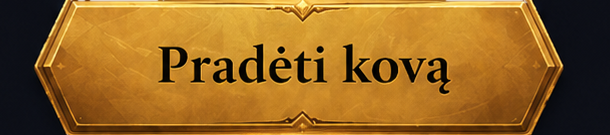
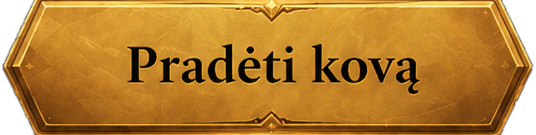
fix(ui): /digital header ir home slifavimas. 1) Dublikuotas varpelis: globalus NotificationCenter plaukiantis bell nerodomas /digital route (toast'ai lieka). 2) Header bell dabar atidaro nauja NotificationsModal (notifications lentele: sarasas, laikas, nuorodos, auto mark-read + badge nulinamas). 3)

diff --git a/src/components/digital/NotificationsModal.tsx b/src/components/digital/NotificationsModal.tsx
@@ -1,0 +1,86 @@
+'use client'
+
+// ── Ravenof Digital — pranešimų modalas (notifications lentelė, mark-read) ────
+import { useEffect, useState } from 'react'
+import { useRouter } from 'next/navigation'
+import { X, BellOff } from 'lucide-react'
+import { createClient } from '@/lib/supabase/client'
+import { playUiClick } from '@/lib/ui-sound'
+import { RvnIcon } from './ui/RvnIcon'
+
+type Notif = { id: string; type: string; title: string; message: string | null; link: string | null; read: boolean; created_at: string }
+
+const ICON: Record<string, string> = { message: '💬', friend: '👥', challenge: '⚔️', trade: '🔄', sale: '🪙', badge: '🎖️', system: '📜' }
+
+function timeAgo(ts: string): string {
+  const s = Math.max(0, (Date.now() - new Date(ts).getTime()) / 1000)
+  if (s < 60) return 'ką tik'
+  if (s < 3600) return `prieš ${Math.floor(s / 60)} min.`
+  if (s < 86400) return `prieš ${Math.floor(s / 3600)} val.`
+  return `prieš ${Math.floor(s / 86400)} d.`
+}
+
+export function NotificationsModal({ onClose, onRead }: { onClose: () => void; onRead?: () => void }) {
+  const router = useRouter()
+  const [items, setItems] = useState<Notif[] | null>(null)
+
+  useEffect(() => {
+    const supabase = createClient()
+    supabase.auth.getUser().then(({ data: { user } }) => {
+      if (!user) { setItems([]); return }
+      supabase.from('notifications').select('id, type, title, message, link, read, created_at')
+        .eq('user_id', user.id).order('created_at', { ascending: false }).limit(30)
+        .then(({ data }) => {
+          setItems((data as Notif[]) ?? [])
+          // pažymim viską skaityta
+          supabase.from('notifications').update({ read: true }).eq('user_id', user.id).eq('read', false)
+            .then(() => onRead?.())
+        })
+    })
+    // eslint-disable-next-line react-hooks/exhaustive-deps
+  }, [])
+
+  const open = (n: Notif) => {
+    playUiClick()
+    if (n.link) { onClose(); router.push(n.link) }
+  }
+
+  return (
+    <div className="fixed inset-0 z-[160] flex items-end sm:items-center justify-center" style={{ background: 'rgba(0,0,0,0.72)', backdropFilter: 'blur(4px)' }} onClick={onClose}>
+      <div className="w-full sm:max-w-md rvn-fade flex flex-col" onClick={(e) => e.stopPropagation()}
+        style={{ maxHeight: '76vh', borderRadius: '18px 18px 0 0', background: 'linear-gradient(165deg, #17111f, #0a0810)', border: '1px solid rgba(240,180,41,0.35)', borderBottom: 'none', boxShadow: '0 -10px 44px rgba(0,0,0,0.8)' }}>
+        <div className="flex items-center justify-between px-4 pt-3.5 pb-2.5" style={{ borderBottom: '1px solid rgba(240,180,41,0.18)' }}>
+          <p className="text-base font-bold inline-flex items-center gap-2" style={{ fontFamily: 'var(--rvn-font-display)', color: 'var(--gold)', letterSpacing: '0.08em' }}>
+            <RvnIcon name="fi-bell" size={22} fallback={<span>🔔</span>} /> PRANEŠIMAI
+          </p>
+          <button onClick={() => { playUiClick(); onClose() }} aria-label="Uždaryti" className="flex items-center justify-center rounded-full" style={{ width: 32, height: 32, background: 'rgba(10,8,16,0.9)', border: '1px solid rgba(240,180,41,0.4)', color: 'var(--gold)' }}><X className="w-4 h-4" /></button>
+        </div>
+        <div className="flex-1 overflow-y-auto" style={{ paddingBottom: 'calc(12px + env(safe-area-inset-bottom, 0px))' }}>
+          {items === null && <p className="text-center text-sm py-10" style={{ color: 'var(--text-muted)' }}>Kraunama…</p>}
+          {items?.length === 0 && (
+            <div className="flex flex-col items-center gap-2 py-12">
+              <BellOff className="w-8 h-8" style={{ color: 'rgba(240,180,41,0.4)' }} />
+              <p className="text-sm" style={{ color: 'var(--text-muted)' }}>Pranešimų kol kas nėra.</p>
+            </div>
+          )}
+          {items?.map((n) => (
+            <button key={n.id} onClick={() => open(n)} disabled={!n.link}
+              className="w-full flex items-start gap-3 px-4 py-3 text-left transition-colors active:bg-white/5"
+              style={{ borderBottom: '1px solid rgba(255,255,255,0.05)', opacity: n.read ? 0.75 : 1 }}>
+              <span className="relative shrink-0 flex items-center justify-center rounded-lg" style={{ width: 36, height: 36, background: 'rgba(240,180,41,0.1)', border: '1px solid rgba(240,180,41,0.28)', fontSize: 17 }}>
+                {ICON[n.type] ?? '📣'}
+                {!n.read && <span className="absolute rounded-full" style={{ top: -3, right: -3, width: 9, height: 9, background: '#ef4444', border: '1.5px solid #0a0810' }} />}
+              </span>
+              <span className="flex-1 min-w-0">
+                <span className="block text-[13px] font-bold truncate" style={{ color: '#f3ead3', fontFamily: 'var(--rvn-font-display)' }}>{n.title}</span>
+                {n.message && <span className="block text-[11.5px] leading-snug" style={{ color: 'var(--text-muted)' }}>{n.message}</span>}
+                <span className="block text-[10px] mt-0.5" style={{ color: 'rgba(150,160,185,0.6)' }}>{timeAgo(n.created_at)}</span>
+              </span>
+              {n.link && <span className="shrink-0 self-center" style={{ color: 'rgba(240,180,41,0.6)', fontSize: 14 }}>→</span>}
+            </button>
+          ))}
+        </div>
+      </div>
+    </div>
+  )
+}

diff --git a/src/components/digital/SettingsModal.tsx b/src/components/digital/SettingsModal.tsx
@@ -13,10 +13,13 @@ import {
 import { saveDigitalSettings } from '@/lib/settings-sync'
 import { isUiSoundEnabled, toggleUiSound, subscribeUiSound, playUiClick } from '@/lib/ui-sound'
 import { remindersEnabled, setRemindersEnabled, isNativeApp } from '@/lib/digital/native'
+import { RvnIcon } from './ui/RvnIcon'
 
 const ACC = '240,180,41'
 
-export function SettingsModal({ onClose }: { onClose: () => void }) {
+type Profile = { name: string; level: number; pct: number; avatarUrl: string | null }
+
+export function SettingsModal({ onClose, profile }: { onClose: () => void; profile?: Profile | null }) {
   const [music, setMusic] = useState(0.32)
   const [sfx, setSfx] = useState(1)
   const [summon, setSummon] = useState(true)
@@ -45,8 +48,26 @@ export function SettingsModal({ onClose }: { onClose: () => void }) {
   return (
     <div className="fixed inset-0 z-[150] flex items-center justify-center p-4" style={{ background: 'rgba(4,3,8,0.9)' }} onClick={onClose}>
       <div className="relative w-[min(420px,94vw)]" style={{ borderRadius: 18, background: `rgba(${ACC},0.32)`, padding: 2 }} onClick={(e) => e.stopPropagation()}>
-        <div className="relative px-5 py-6" style={{ borderRadius: 17, background: `radial-gradient(120% 90% at 50% 0%, rgba(${ACC},0.14), rgba(10,8,16,0.97) 60%), linear-gradient(160deg,#15101f,#0a0810)` }}>
-          <p className="text-lg font-bold mb-5 text-center" style={{ fontFamily: 'var(--rvn-font-display)', color: 'var(--gold)', letterSpacing: '0.08em' }}>⚙️ NUSTATYMAI</p>
+        <div className="relative px-5 py-6" style={{ borderRadius: 17, maxHeight: '86vh', overflowY: 'auto', background: `radial-gradient(120% 90% at 50% 0%, rgba(${ACC},0.14), rgba(10,8,16,0.97) 60%), linear-gradient(160deg,#15101f,#0a0810)` }}>
+          <p className="text-lg font-bold mb-4 text-center" style={{ fontFamily: 'var(--rvn-font-display)', color: 'var(--gold)', letterSpacing: '0.08em' }}>⚙️ NUSTATYMAI</p>
+
+          {/* Žaidėjo profilis */}
+          {profile && (
+            <div className="mb-5 flex items-center gap-3 px-3.5 py-3 rounded-2xl" style={{ background: `radial-gradient(120% 120% at 0% 0%, rgba(${ACC},0.16), transparent 55%), rgba(10,8,16,0.7)`, border: `1px solid rgba(${ACC},0.35)` }}>
+              <span className="relative flex items-center justify-center shrink-0" style={{ width: 52, height: 52, borderRadius: '50%', border: `1.5px solid rgba(${ACC},0.65)`,
+                background: profile.avatarUrl ? `center/cover url(${profile.avatarUrl})` : 'radial-gradient(circle at 50% 32%, #3a2a4e, #0c0a14)', boxShadow: `0 0 12px rgba(${ACC},0.3), inset 0 0 8px rgba(0,0,0,0.6)` }}>
+                {!profile.avatarUrl && <RvnIcon name="avatar" size={50} round fallback={<span style={{ fontSize: 24 }}>🐦⬛</span>} />}
+                <span className="absolute flex items-center justify-center" style={{ bottom: -5, right: -5, minWidth: 20, height: 18, padding: '0 4px', borderRadius: 9, fontSize: 10.5, fontWeight: 800, fontFamily: 'var(--rvn-font-display)', background: 'linear-gradient(180deg,#1a1424,#0a0810)', border: `1px solid rgba(${ACC},0.8)`, color: `rgb(${ACC})` }}>{profile.level}</span>
+              </span>
+              <span className="flex-1 min-w-0">
+                <span className="block truncate" style={{ fontSize: 15, fontWeight: 800, color: '#f3ead3', fontFamily: 'var(--rvn-font-display)' }}>{profile.name}</span>
+                <span className="block" style={{ fontSize: 10.5, color: 'var(--text-muted)' }}>Lygis {profile.level}</span>
+                <span className="block mt-1.5" style={{ height: 6, borderRadius: 3, background: 'rgba(255,255,255,0.1)', overflow: 'hidden', boxShadow: 'inset 0 0 3px rgba(0,0,0,0.6)' }}>
+                  <span style={{ display: 'block', height: '100%', width: `${Math.max(3, Math.min(100, profile.pct))}%`, background: `linear-gradient(90deg, rgba(${ACC},0.75), rgb(${ACC}))`, boxShadow: `0 0 6px rgba(${ACC},0.6)` }} />
+                </span>
+              </span>
+            </div>
+          )}
 
           {/* Bendras garso jungiklis */}
           <button onClick={() => { const n = toggleUiSound(); if (n) playUiClick() }}

diff --git a/src/app/digital/layout.tsx b/src/app/digital/layout.tsx
@@ -4,11 +4,12 @@
 // Game-account header (logo + profilis + resursai + bell + settings) ir modern
 // game tab bar (Pradžia/Kolekcija/Kaladės/Parduotuvė/Daugiau). Žaisti = hero CTA.
 import Link from 'next/link'
-import { usePathname, useRouter } from 'next/navigation'
+import { usePathname } from 'next/navigation'
 import { useCallback, useEffect, useState } from 'react'
 import { Home, LayoutGrid, Layers, ShoppingBag, Menu, Bell, Settings } from 'lucide-react'
 import { Flames } from '@/components/digital/Flames'
 import { SettingsModal } from '@/components/digital/SettingsModal'
+import { NotificationsModal } from '@/components/digital/NotificationsModal'
 import { StoreModal } from '@/components/digital/StoreModal'
 import { startMenuMusic, stopMusic } from '@/lib/game/musicManager'
 import { playUiClick } from '@/lib/ui-sound'
@@ -17,7 +18,7 @@ import { getWallet, type Wallet } from '@/lib/economy'
 import { onWalletChanged, onOpenStore, setNativeImmersive, scheduleReturnReminders } from '@/lib/digital/native'
 import { createClient } from '@/lib/supabase/client'
 import { getLevelProgress } from '@/lib/gamification/levels'
-import { HubStyles, ProfileChip, ResourcePill, IconBtn } from '@/components/digital/ui/HubKit'
+import { HubStyles, ResourcePill, IconBtn } from '@/components/digital/ui/HubKit'
 import { RvnIcon } from '@/components/digital/ui/RvnIcon'
 
 type NavItem = { key: string; label: string; icon: React.ComponentType<{ className?: string }>; href?: string; action?: 'store' }
@@ -33,10 +34,10 @@ type Profile = { name: string; level: number; pct: number; avatarUrl: string | n
 
 export default function DigitalLayout({ children }: { children: React.ReactNode }) {
   const pathname = usePathname()
-  const router = useRouter()
   const [wallet, setWallet] = useState<Wallet>({ gold: 0, packs: 0 })
   const [settingsOpen, setSettingsOpen] = useState(false)
   const [storeOpen, setStoreOpen] = useState(false)
+  const [notifOpen, setNotifOpen] = useState(false)
   const [profile, setProfile] = useState<Profile | null>(null)
   const [unread, setUnread] = useState(0)
 
@@ -93,13 +94,12 @@ export default function DigitalLayout({ children }: { children: React.ReactNode 
             {/* eslint-disable-next-line @next/next/no-img-element */}
             <img src="/digital/ui3/logo.png" alt="Ravenof Digital" style={{ height: 34, width: 'auto', filter: 'drop-shadow(0 0 10px rgba(240,180,41,0.35))' }} />
           </Link>
-          {profile && <ProfileChip name={profile.name} level={profile.level} pct={profile.pct} avatarUrl={profile.avatarUrl} onClick={() => { playUiClick(); router.push('/digital/more') }} />}
         </div>
 
         <div className="flex items-center gap-1.5 shrink-0">
           <ResourcePill icon={<RvnIcon name="fi-coins" size={16} fallback={<span>🪙</span>} />} value={wallet.gold.toLocaleString('lt-LT')} />
           <ResourcePill icon={<RvnIcon name="fi-gifts" size={16} fallback={<span>🎁</span>} />} value={wallet.packs} accent="251,146,60" onClick={() => { playUiClick(); setStoreOpen(true) }} />
-          <IconBtn label="Pranešimai" badge={unread || null} onClick={() => { playUiClick(); router.push('/digital/more') }}><RvnIcon name="bell" size={18} fallback={<Bell className="w-4 h-4" />} /></IconBtn>
+          <IconBtn label="Pranešimai" badge={unread || null} onClick={() => { playUiClick(); setNotifOpen(true) }}><RvnIcon name="bell" size={18} fallback={<Bell className="w-4 h-4" />} /></IconBtn>
           <IconBtn label="Nustatymai" onClick={() => { playUiClick(); setSettingsOpen(true) }}><RvnIcon name="settings" size={18} fallback={<Settings className="w-4 h-4" />} /></IconBtn>
         </div>
       </header>
@@ -135,7 +135,8 @@ export default function DigitalLayout({ children }: { children: React.ReactNode 
         })}
       </nav>
 
-      {settingsOpen && <SettingsModal onClose={() => setSettingsOpen(false)} />}
+      {settingsOpen && <SettingsModal profile={profile} onClose={() => setSettingsOpen(false)} />}
+      {notifOpen && <NotificationsModal onClose={() => setNotifOpen(false)} onRead={() => setUnread(0)} />}
       {storeOpen && <StoreModal gold={wallet.gold} onClose={() => setStoreOpen(false)} onChanged={refreshWallet} />}
     </div>
   )

diff --git a/src/components/notifications/NotificationCenter.tsx b/src/components/notifications/NotificationCenter.tsx
@@ -2,7 +2,7 @@
 
 // ── Globalios notifikacijos: pop-up toast'ai + varpelis (veikia ir Android appe) ─
 import { useCallback, useEffect, useRef, useState } from 'react'
-import { useRouter } from 'next/navigation'
+import { usePathname, useRouter } from 'next/navigation'
 import { Bell } from 'lucide-react'
 import { createClient } from '@/lib/supabase/client'
 import { pollNotifications, registerNativePush, type NotifEvent } from '@/lib/notify'
@@ -13,6 +13,8 @@ type Toast = NotifEvent & { id: number }
 
 export function NotificationCenter() {
   const router = useRouter()
+  const pathname = usePathname()
+  const onDigital = !!pathname && pathname.startsWith('/digital')
   const [authed, setAuthed] = useState(false)
   const [toasts, setToasts] = useState<Toast[]>([])
   const [recent, setRecent] = useState<NotifEvent[]>([])
@@ -76,8 +78,8 @@ export function NotificationCenter() {
         ))}
       </div>
 
-      {/* Varpelis */}
-      <div className="fixed top-2.5 right-2.5 z-[290]">
+      {/* Varpelis (/digital turi savo varpelį header'yje) */}
+      {!onDigital && <div className="fixed top-2.5 right-2.5 z-[290]">
         <button onClick={() => { setOpen((o) => !o); setUnread(0) }} className="relative w-9 h-9 rounded-full flex items-center justify-center"
           style={{ background: 'rgba(10,8,16,0.85)', border: '1px solid rgba(240,180,41,0.4)' }} aria-label="Notifikacijos">
           <Bell className="w-4 h-4" style={{ color: 'var(--gold)' }} />
@@ -97,7 +99,7 @@ export function NotificationCenter() {
             </div>
           </div>
         )}
-      </div>
+      </div>}
     </>
   )
 }

diff --git a/src/components/digital/ui/HubKit.tsx b/src/components/digital/ui/HubKit.tsx
@@ -98,9 +98,9 @@ export function RewardBanner({ streak, claimable, onClaim }: { streak: number; c
   return (
     <div className={`rvn-panel rvn-fade flex items-center gap-3 ${claimable ? 'rvn-glow' : ''}`} style={{ padding: '10px 12px', borderColor: claimable ? `rgba(${GOLD},0.5)` : undefined }}>
       <span className="flex items-center justify-center shrink-0" style={{ width: 36, height: 38, filter: 'drop-shadow(0 0 8px rgba(251,120,40,0.5))' }}><RvnIcon name="flame" size={28} fallback={<span style={{ fontSize: 24 }}>🔥</span>} /></span>
-      <span className="flex-1 min-w-0">
-        <span className="block rvn-disp" style={{ fontSize: 14, fontWeight: 700, color: '#f3ead3' }}>{streak} d. prisijungimo serija</span>
-        <span className="block" style={{ fontSize: 10.5, color: 'var(--text-muted)' }}>{claimable ? 'Atlygis paruoštas!' : 'Kitas atlygis rytoj'}</span>
+      <span className="flex-1 min-w-0" style={{ paddingRight: 4 }}>
+        <span className="block rvn-disp" style={{ fontSize: 14, fontWeight: 700, color: '#f3ead3', lineHeight: 1.25 }}>{streak} d. serija</span>
+        <span className="block" style={{ fontSize: 10.5, color: 'var(--text-muted)', lineHeight: 1.3 }}>{claimable ? 'Prisijungimo atlygis paruoštas!' : 'Kitas prisijungimo atlygis rytoj'}</span>
       </span>
       <MiniReward icon="🪙" img="fi-coins" amount="x250" />
       <MiniReward icon="🎁" img="fi-gifts" amount="x1" accent="139,92,246" />